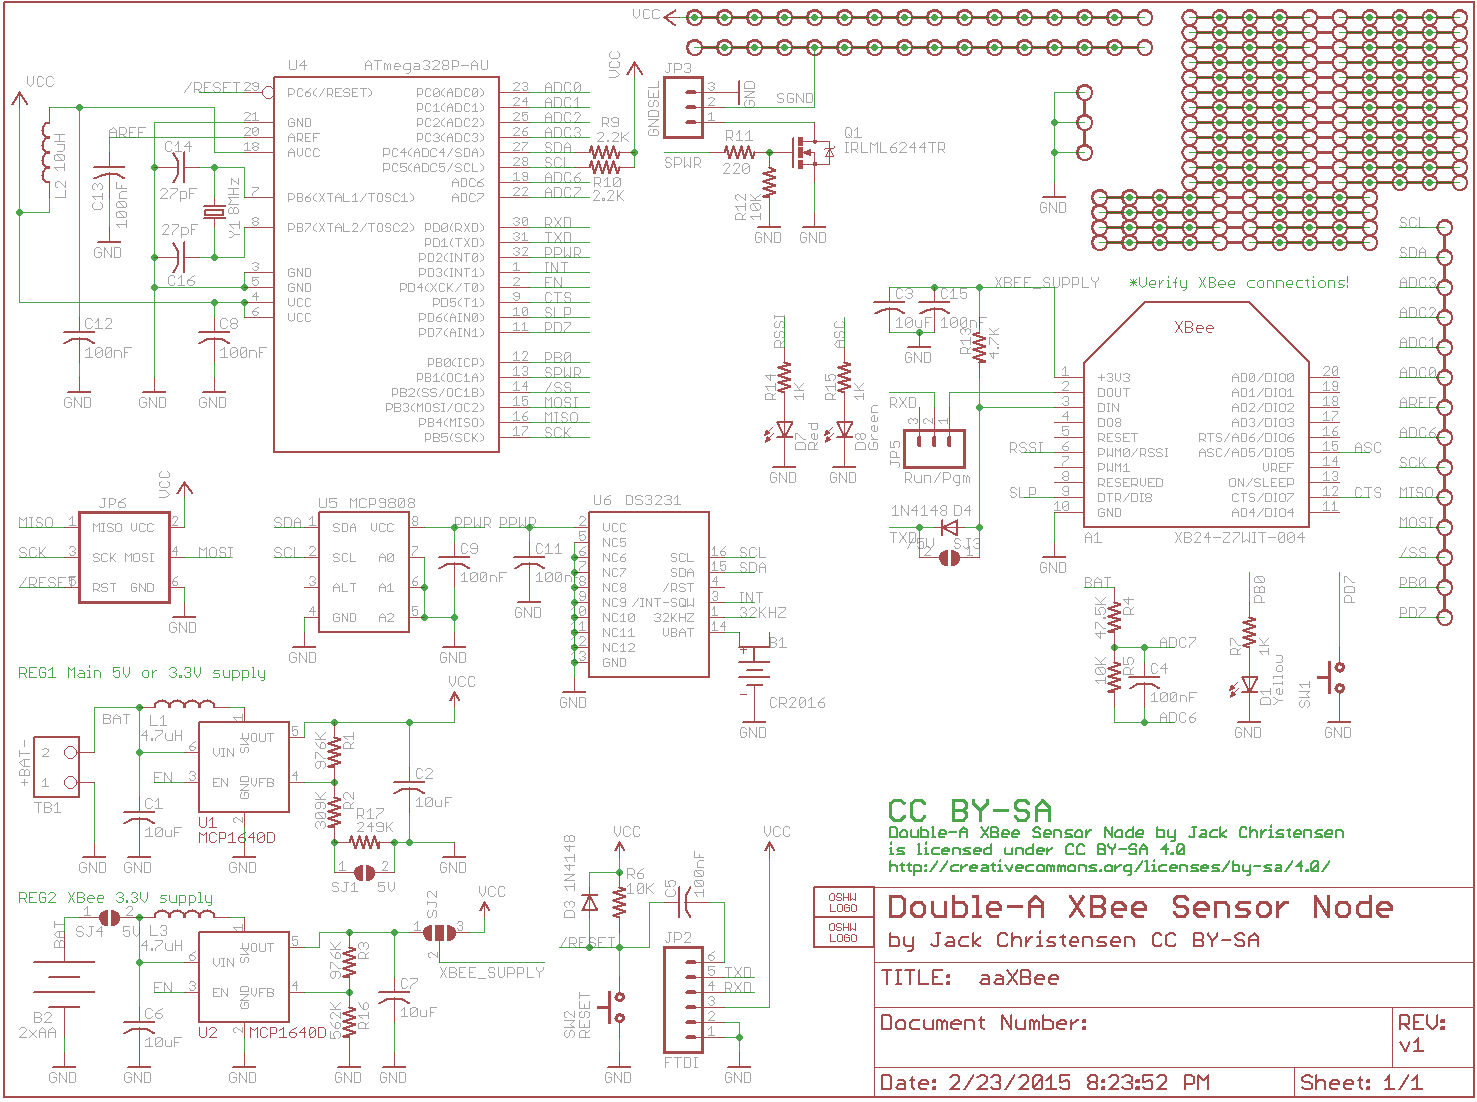
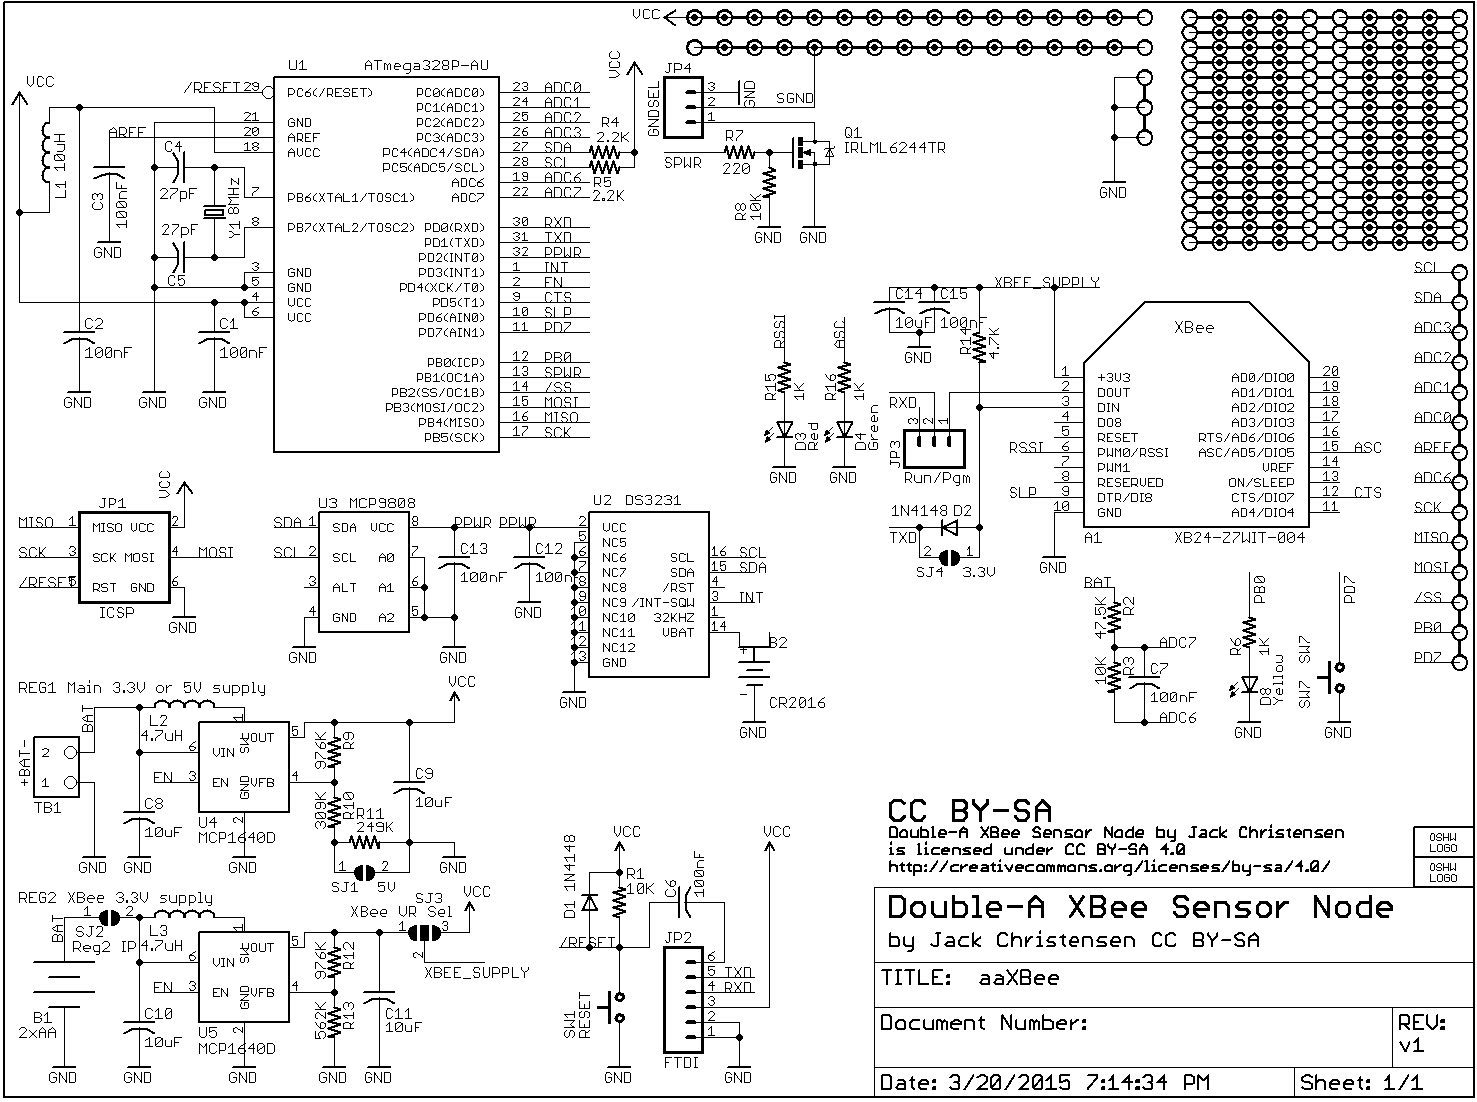
Update doc files, board and schematic images.

diff --git a/ReadMe.md b/ReadMe.md
@@ -1,55 +1,13 @@
-# ATtinyX4 Breadboard Helper #
-http://github.com/JChristensen/bbhTinyX4  
+# Double-A XBee Sensor Node #
+http://github.com/JChristensen/aaXBee_HW  
 ReadMe file  
-Jack Christensen Jan 2015  
+Jack Christensen Mar 2015  
 
-![](https://raw.githubusercontent.com/JChristensen/bbhTinyX4/master/bbh1.jpg)
+![](board.png)
 
 ## Introduction ##
 
-ATtiny Breadboard Helpers are the easiest way to breadboard Atmel ATtiny24/44/84 and ATtiny25/45/85 micrcontrollers! These small boards contain everything needed to run an ATtiny microcontroller, including:
-- ICSP header
-- Filter and bypass capacitors
-- Reset button with pullup resistor
-- LED with current-limiting resistor
-
-The Breadboard Helper breaks out all the MCU's pins to a header and also connects to the breadboard's power rails. Plug the Breadboard Helper into a breadboard, add power, connect a programmer, and the microcontroller is ready to go!
-
-PC boards can be ordered [from OSH Park](https://www.oshpark.com/shared_projects/I1Z984Pi).  
-A Bill of Materials with Mouser part numbers is part of this repo.  
-See the ATtinyX5 Breadboard Helper [here](https://github.com/JChristensen/bbhTinyX5).
-
-## Power Connection (see photos below)##
-
-A two-pin header connects the Breadboard Helper to the breadboard's power rails. This header should be soldered ***either*** into the position labeled **"a"** ***or*** into the position labeled **"b"**.
-
-Use position **"a"** for breadboards where the power rail holes line up with those in the main part of the breadboard (most full-size breadboards). Use position **"b"** for breadboards where the power rail holes are staggered between those in the main part of the breadboard (most half-size breadboards).
-
-Observe polarity carefully and ***do not*** solder headers into both positions **"a"** and **"b"**, as the result will likely not fit into any breadboard!
-
-## Arduino Pin Mapping ##
-
-The 12-pin header is labeled with Arduino pin numbers 0-10 plus RESET, using the pin mapping from the [Arduino-Tiny core](https://code.google.com/p/arduino-tiny/). Other cores may be used with the Breadboard Helper but be aware that the pin mapping may be different. The AVR port and pin numbers are also labeled for easy reference.
-
-The LED is connected to Arduino pin 6 or PA4 (ADC4/USCK/SCL/T1/PCINT4).
-
-## Make the right power connection ##
-
-Some breadboards have holes in the power rails that line up with those in the main part of the breadboard -- this is **Type "a"**.  
-
-Some breadboards have holes in the power rails that are staggered between those in the main part of the breadboard -- this is **Type "b"**.  
-
-![](https://raw.githubusercontent.com/JChristensen/bbhTinyX4/master/bbh2.jpg)
-
-![](https://raw.githubusercontent.com/JChristensen/bbhTinyX4/master/bbh3.jpg)
-
-Solder the two-pin power rail header into position **"a"** *or* position **"b"**, *NOT BOTH!*
-
-![](https://raw.githubusercontent.com/JChristensen/bbhTinyX4/master/bbh4.jpg)
-
-Add power (observe polarity!), connect a programmer and the ATtiny is ready to go!
-
-![](https://raw.githubusercontent.com/JChristensen/bbhTinyX4/master/bbh5.jpg)
+A low-power, Arduino-compatible XBee sensor node that runs on two AA cells.
 
 ## CC BY-SA ##
-"ATtinyX4 Breadboard Helper" by Jack Christensen is licensed under [CC BY-SA 4.0](http://creativecommons.org/licenses/by-sa/4.0/).
+"Double-A XBee Sensor Node" by Jack Christensen is licensed under [CC BY-SA 4.0](http://creativecommons.org/licenses/by-sa/4.0/).

diff --git a/LICENSE.md b/LICENSE.md
@@ -1,8 +1,8 @@
-# ATtinyX4 Breadboard Helper #
-http://github.com/JChristensen/bbhTinyX4  
+# Double-A XBee Sensor Node #
+http://github.com/JChristensen/aaXBee_HW  
 LICENSE file  
-Jack Christensen Jan 2015  
+Jack Christensen Mar 2015  
 
 ![CC BY-SA](http://mirrors.creativecommons.org/presskit/buttons/88x31/png/by-sa.png)
 ## CC BY-SA ##
-"ATtinyX4 Breadboard Helper" by Jack Christensen is licensed under [CC BY-SA 4.0](http://creativecommons.org/licenses/by-sa/4.0/).
+"Double-A XBee Sensor Node" by Jack Christensen is licensed under [CC BY-SA 4.0](http://creativecommons.org/licenses/by-sa/4.0/).
